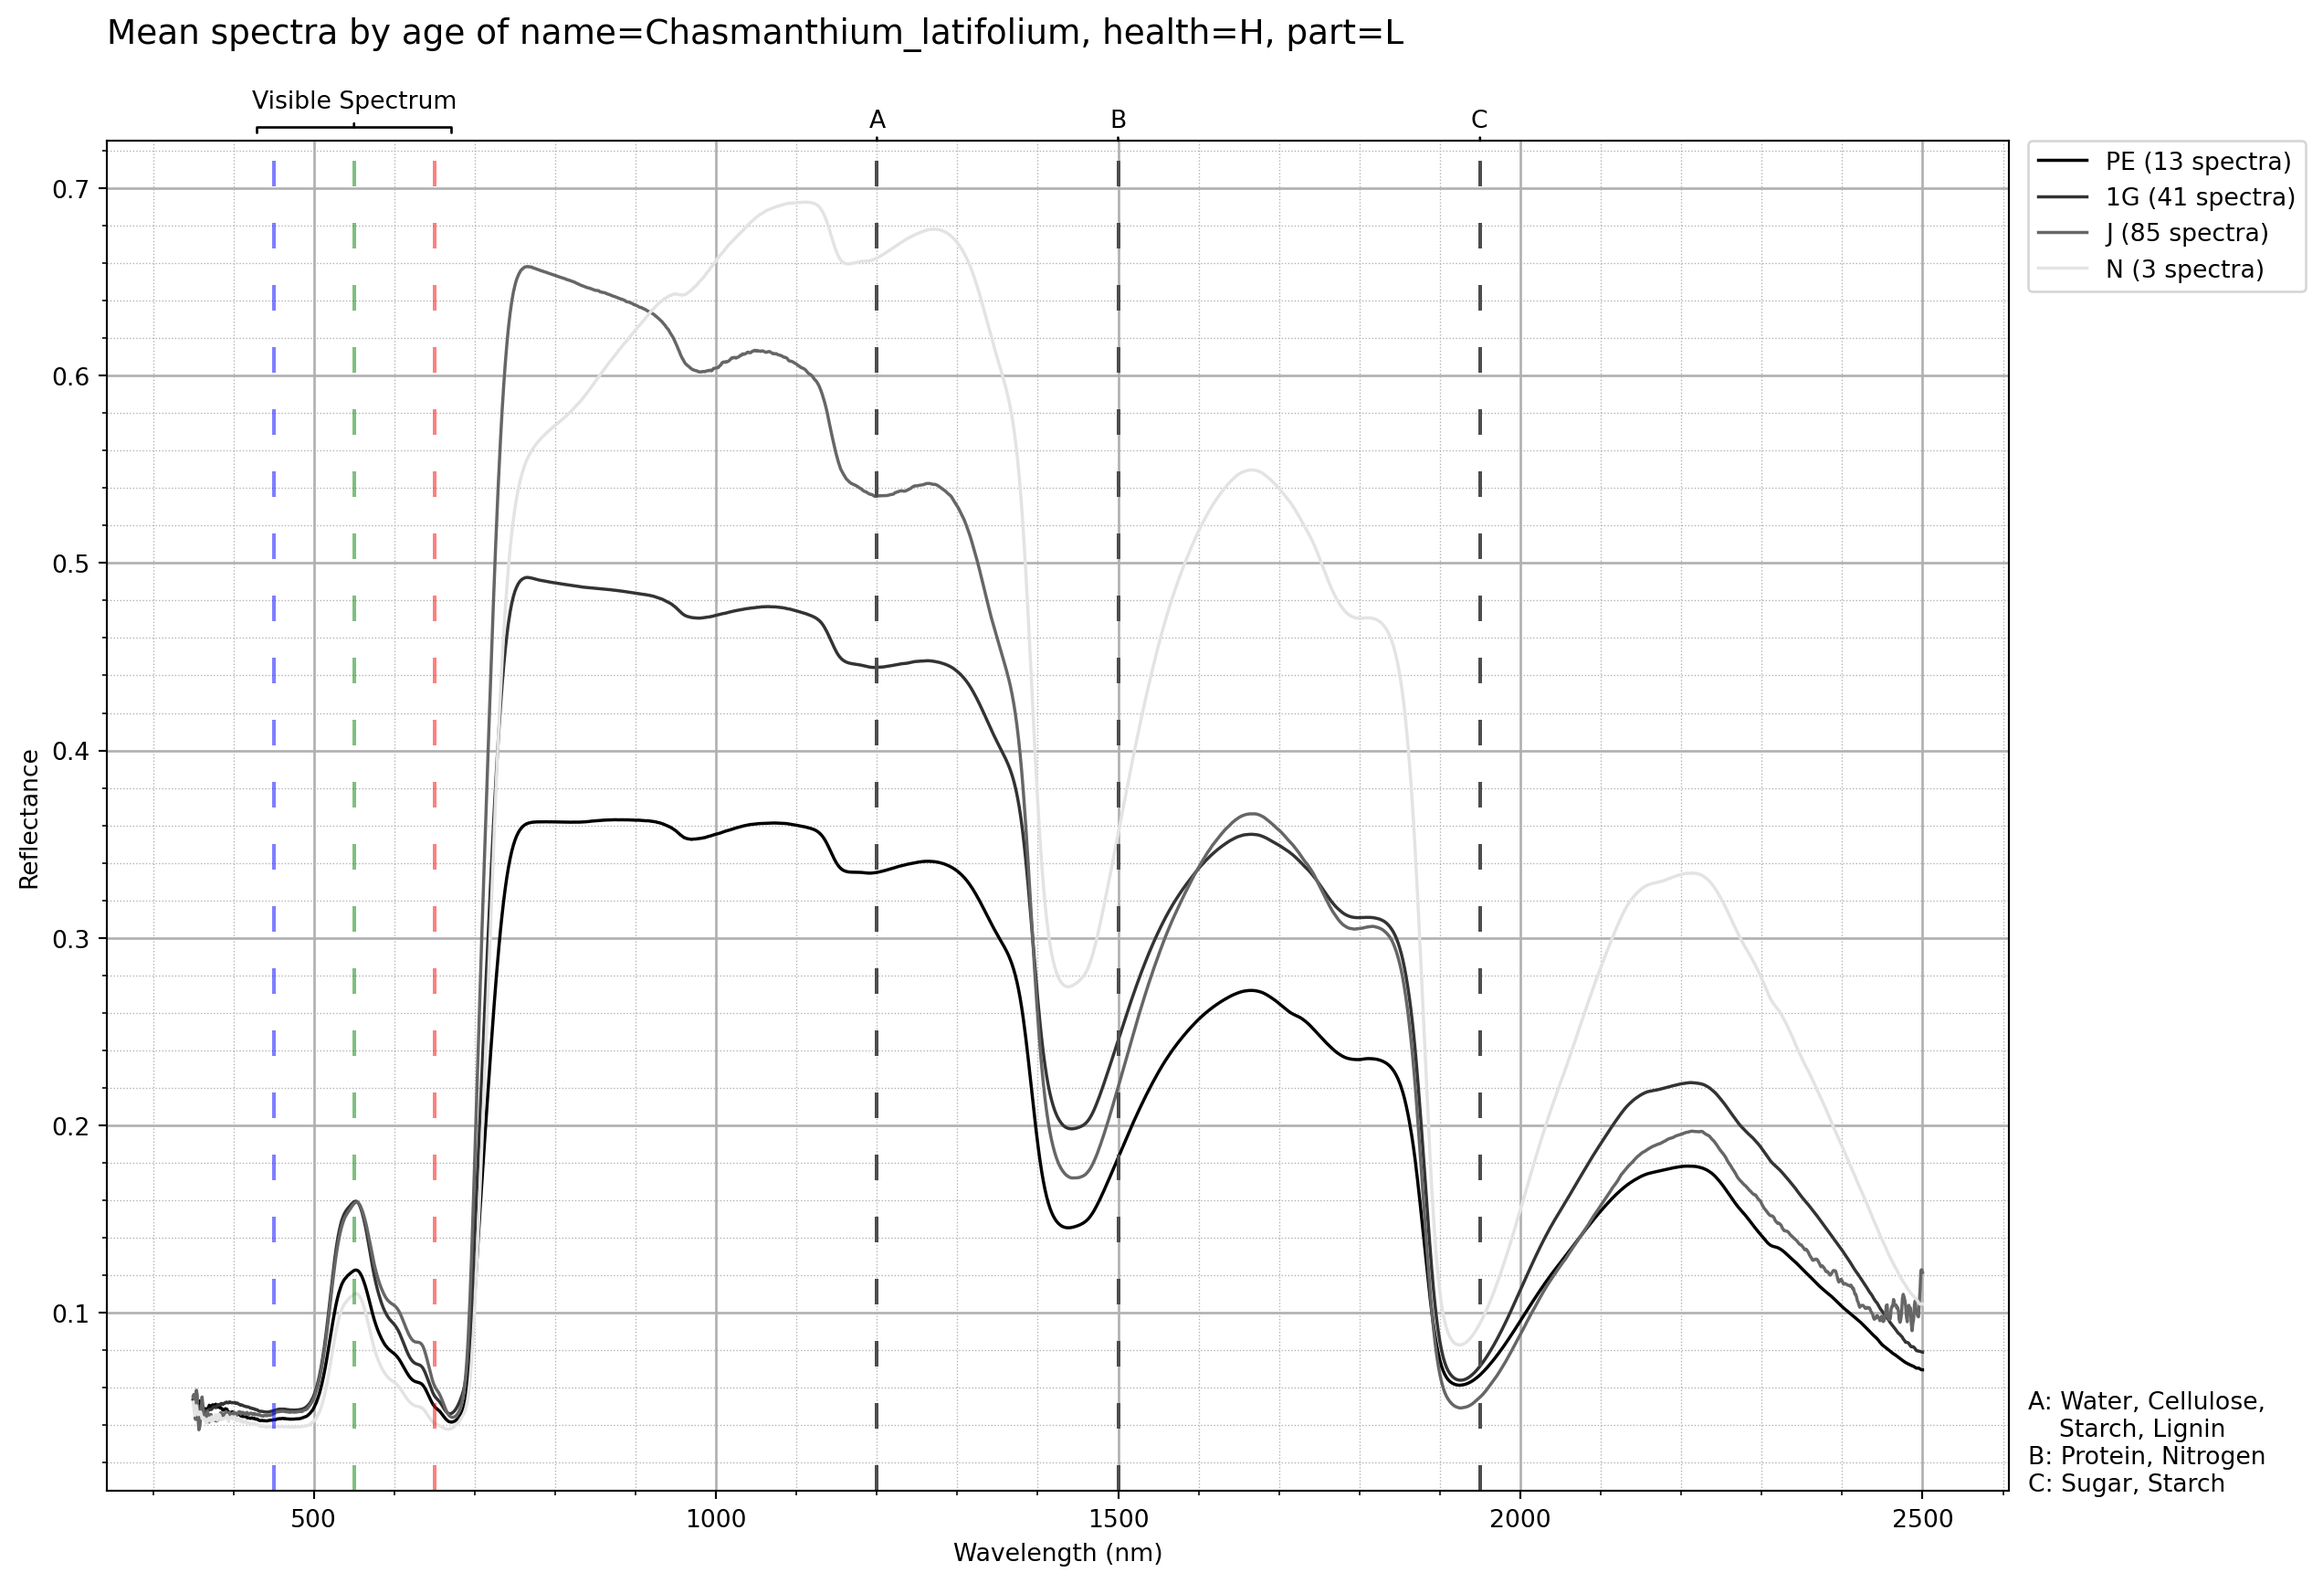
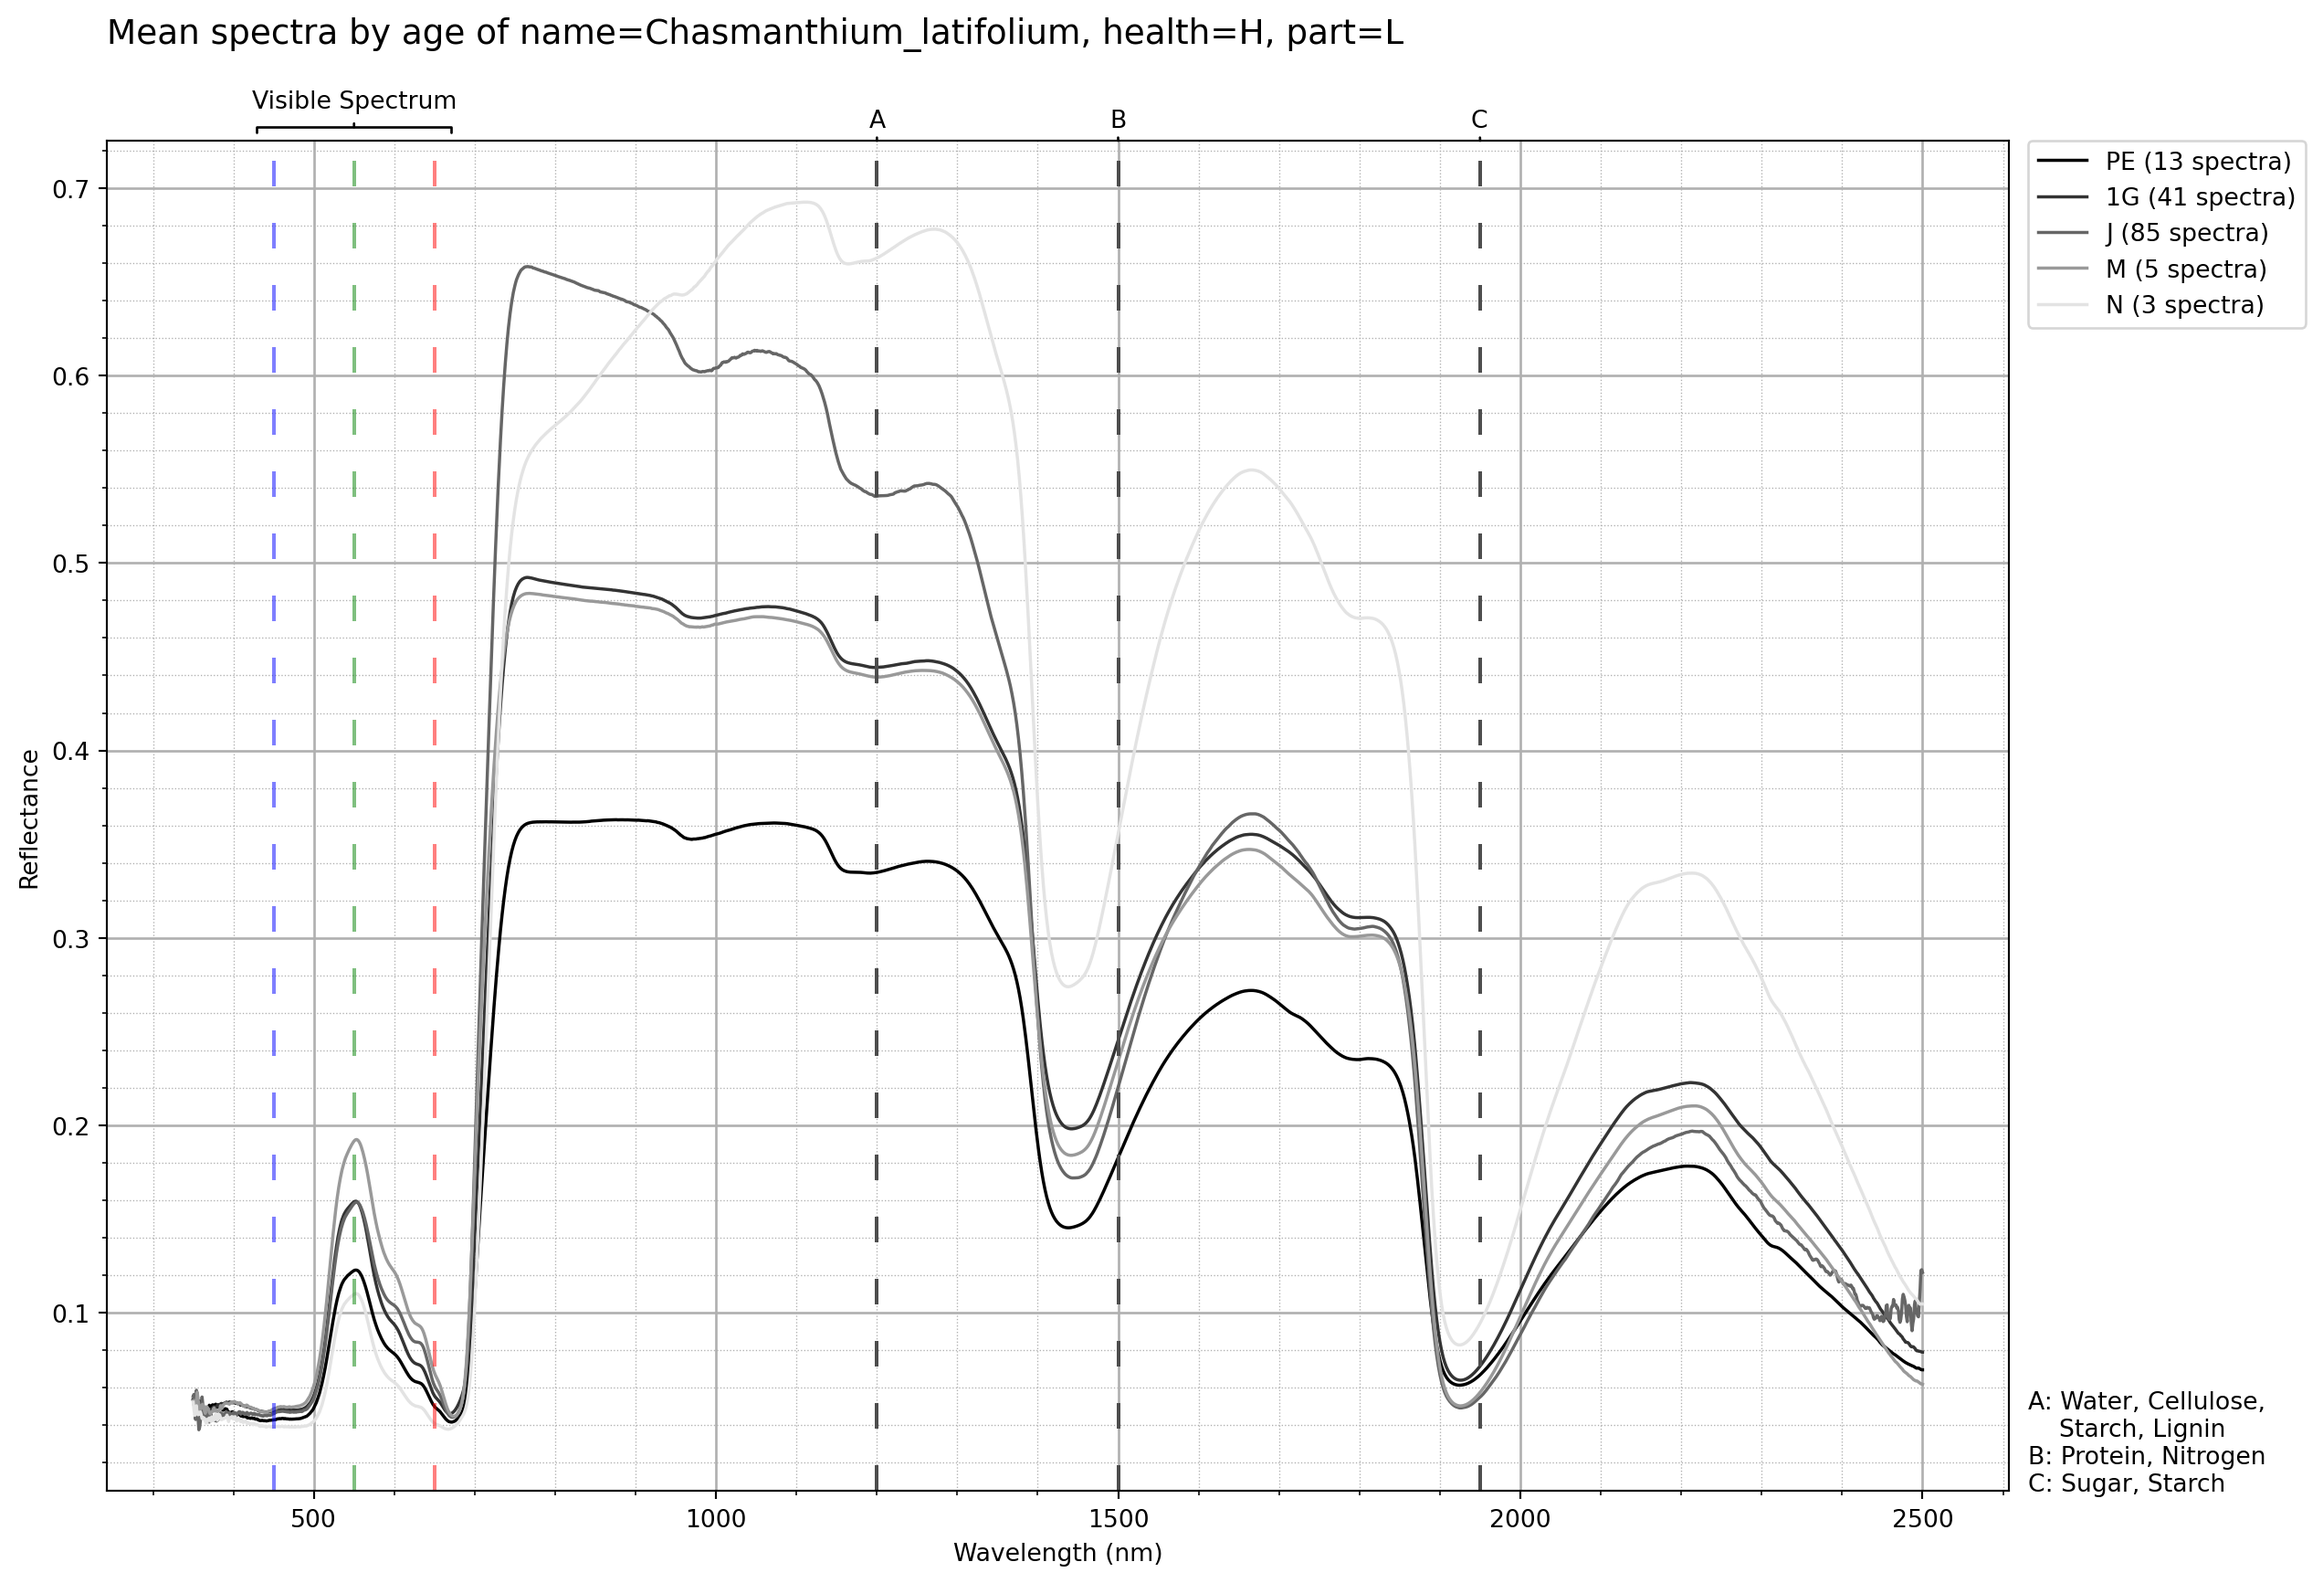
Built site for gh-pages

Changed region(s): [[0.8695, 0.1558, 0.9937, 0.2181], [0.2174, 0.3739, 0.2484, 0.4051]]

diff --git a/reports/Report1.html b/reports/Report1.html
@@ -152,7 +152,7 @@ ul.task-list li input[type="checkbox"] {
 
 <section id="spectral-library" class="level2 page-columns page-full">
 <h2 class="anchored" data-anchor-id="spectral-library">Spectral Library</h2>
-<p>Number of Spectra: 4278</p>
+<p>Number of Spectra: 4408</p>
 <div id="cell-table1" class="cell page-columns page-full" data-execution_count="9">
 <div id="table1" class="cell-output cell-output-display column-page-inset-right" data-execution_count="9">
 <div>
@@ -280,38 +280,38 @@ ul.task-list li input[type="checkbox"] {
 </tr>
 <tr class="even">
 <td data-quarto-table-cell-role="th">Chasmanthium_latifolium</td>
-<td>450</td>
+<td>489</td>
 <td>108</td>
-<td>192</td>
-<td>58</td>
+<td>204</td>
+<td>70</td>
 <td>0</td>
 <td>0</td>
-<td>41</td>
+<td>56</td>
 <td>6</td>
 <td>31</td>
 <td>32</td>
 <td>160</td>
 <td>222</td>
-<td>4</td>
+<td>43</td>
 <td>30</td>
-<td>377</td>
+<td>398</td>
 <td>0</td>
 <td>0</td>
 <td>0</td>
 <td>0</td>
-<td>17</td>
+<td>35</td>
 <td>0</td>
 <td>11</td>
 <td>11</td>
-<td>101</td>
-<td>13</td>
+<td>122</td>
+<td>31</td>
 <td>35</td>
 </tr>
 <tr class="odd">
 <td data-quarto-table-cell-role="th">Ilex_vomitoria</td>
-<td>349</td>
-<td>85</td>
-<td>99</td>
+<td>363</td>
+<td>96</td>
+<td>102</td>
 <td>39</td>
 <td>26</td>
 <td>85</td>
@@ -320,10 +320,10 @@ ul.task-list li input[type="checkbox"] {
 <td>0</td>
 <td>6</td>
 <td>0</td>
-<td>291</td>
+<td>305</td>
 <td>7</td>
 <td>7</td>
-<td>300</td>
+<td>314</td>
 <td>0</td>
 <td>0</td>
 <td>0</td>
@@ -332,34 +332,34 @@ ul.task-list li input[type="checkbox"] {
 <td>0</td>
 <td>0</td>
 <td>3</td>
-<td>52</td>
+<td>66</td>
 <td>0</td>
 <td>0</td>
 </tr>
 <tr class="even">
 <td data-quarto-table-cell-role="th">Iva_frutescens</td>
-<td>341</td>
+<td>355</td>
 <td>14</td>
 <td>297</td>
 <td>8</td>
 <td>9</td>
-<td>10</td>
+<td>24</td>
 <td>0</td>
 <td>0</td>
 <td>0</td>
 <td>0</td>
 <td>5</td>
-<td>51</td>
+<td>65</td>
 <td>193</td>
 <td>46</td>
-<td>149</td>
+<td>163</td>
 <td>18</td>
 <td>0</td>
 <td>0</td>
 <td>0</td>
 <td>61</td>
 <td>58</td>
-<td>0</td>
+<td>14</td>
 <td>106</td>
 <td>15</td>
 <td>0</td>
@@ -367,21 +367,21 @@ ul.task-list li input[type="checkbox"] {
 </tr>
 <tr class="odd">
 <td data-quarto-table-cell-role="th">Morella_pennsylvanica</td>
-<td>249</td>
-<td>12</td>
-<td>198</td>
+<td>280</td>
+<td>21</td>
+<td>213</td>
 <td>0</td>
 <td>0</td>
-<td>25</td>
+<td>32</td>
 <td>0</td>
 <td>14</td>
 <td>0</td>
 <td>0</td>
 <td>5</td>
 <td>25</td>
-<td>219</td>
+<td>250</td>
 <td>74</td>
-<td>70</td>
+<td>101</td>
 <td>0</td>
 <td>0</td>
 <td>0</td>
@@ -454,9 +454,9 @@ ul.task-list li input[type="checkbox"] {
 </tr>
 <tr class="even">
 <td data-quarto-table-cell-role="th">Robinia_hispida</td>
-<td>267</td>
-<td>44</td>
-<td>100</td>
+<td>292</td>
+<td>55</td>
+<td>114</td>
 <td>67</td>
 <td>0</td>
 <td>56</td>
@@ -464,11 +464,11 @@ ul.task-list li input[type="checkbox"] {
 <td>0</td>
 <td>0</td>
 <td>0</td>
-<td>113</td>
+<td>138</td>
 <td>136</td>
 <td>18</td>
 <td>13</td>
-<td>254</td>
+<td>279</td>
 <td>0</td>
 <td>0</td>
 <td>0</td>
@@ -483,8 +483,8 @@ ul.task-list li input[type="checkbox"] {
 </tr>
 <tr class="odd">
 <td data-quarto-table-cell-role="th">Rosa_rugosa</td>
-<td>190</td>
-<td>41</td>
+<td>197</td>
+<td>48</td>
 <td>125</td>
 <td>12</td>
 <td>0</td>
@@ -493,11 +493,11 @@ ul.task-list li input[type="checkbox"] {
 <td>0</td>
 <td>0</td>
 <td>36</td>
-<td>104</td>
+<td>111</td>
 <td>47</td>
 <td>3</td>
 <td>3</td>
-<td>138</td>
+<td>145</td>
 <td>8</td>
 <td>0</td>
 <td>0</td>
@@ -675,7 +675,7 @@ ul.task-list li input[type="checkbox"] {
 <div class="cell-output cell-output-display page-columns page-full">
 <div class="page-columns page-full">
 <figure class="figure page-columns page-full">
-<p class="page-columns page-full"><img src="Report1_files/figure-html/cell-18-output-1.png" width="1250" height="867" class="figure-img column-page"></p>
+<p class="page-columns page-full"><img src="Report1_files/figure-html/cell-18-output-1.png" width="1262" height="867" class="figure-img column-page"></p>
 </figure>
 </div>
 </div>
